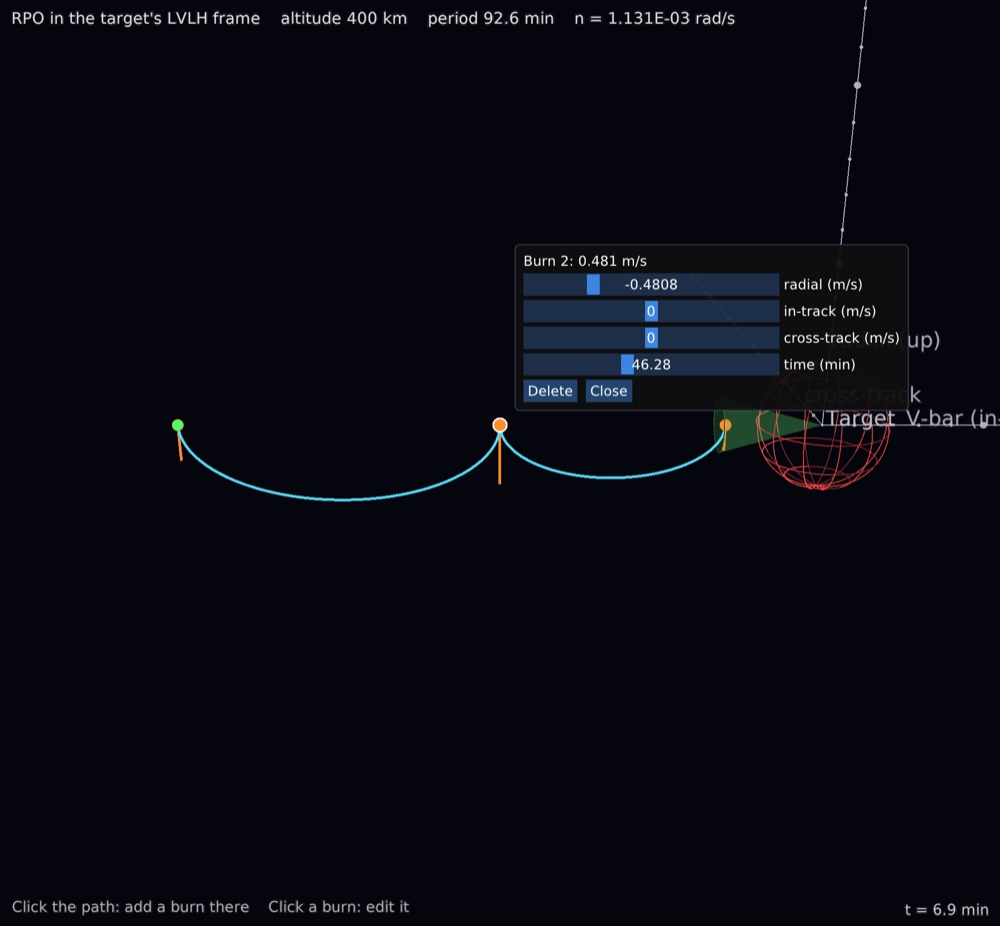
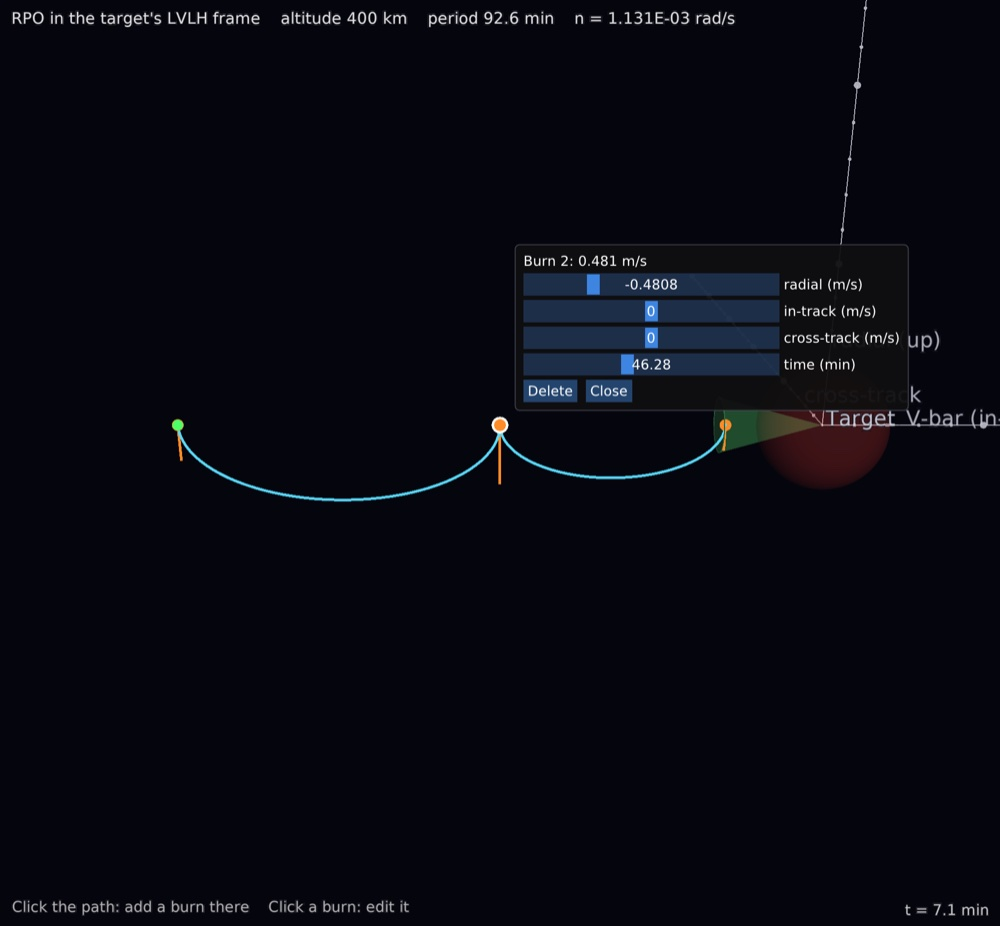
Translucent spheres, and the rendezvous demo's keep-out sphere
Sphere%set_opacity (default 1; not in OpenFrames): below 1 when first
shown, the body is drawn lit and blended (vkf_mesh_create's flag 8: front
faces, no depth written) in a depth-sorted bin (vsg::DepthSorted, bin 10,
farthest first) that each window's scene view draws after the opaque
scene (vkf_mesh_set_bound: its bound). The opacity is the material's
alpha, so it changes at any time. ellipsoid_create takes `translucent`.
test_bodies checks it.

The rendezvous demo's keep-out sphere is a translucent Sphere (an opacity
control in the dock) instead of a wireframe; README, plan, screenshot.

Changed region(s): [[0.744, 0.4233, 0.899, 0.5443], [0.93, 0.9676, 0.961, 0.9978]]

diff --git a/src/vsg/vkf_layer.cpp b/src/vsg/vkf_layer.cpp
@@ -1306,6 +1306,21 @@ namespace
         void apply(vsg::ColorBlendState& state) override { state.configureAttachments(true); }
     };
 
+    // Pipeline states of lit translucent surfaces (a translucent Sphere): blended,
+    // front faces only (the back of a closed surface isn't drawn through it),
+    // not writing depth. Drawn in translucent_bin, after the opaque scene.
+    struct TranslucentStates : public vsg::Visitor
+    {
+        void apply(vsg::Object& object) override { object.traverse(*this); }
+        void apply(vsg::RasterizationState& state) override { state.cullMode = VK_CULL_MODE_BACK_BIT; }
+        void apply(vsg::DepthStencilState& state) override { state.depthWriteEnable = VK_FALSE; }
+        void apply(vsg::ColorBlendState& state) override { state.configureAttachments(true); }
+    };
+
+    // The bin of translucent meshes (vsg::DepthSorted), drawn after the
+    // opaque scene, farthest first (each window's scene view has it).
+    constexpr int32_t translucent_bin = 10;
+
     vsg::ref_ptr<vsg::vec4Array> dynamic_vec4_array(uint32_t n)
     {
         auto a = vsg::vec4Array::create(n, vsg::vec4(0.0f, 0.0f, 0.0f, 1.0f));
@@ -1942,6 +1957,10 @@ VKF_API int vkf_viewer_frame_begin(void* viewer)
         {
             // (no VSG headlight: the window's light is vkframes', v->headlight)
             v->commandGraph = vsg::createCommandGraphForView(v->window, v->camera, v->scene, VK_SUBPASS_CONTENTS_INLINE, false);
+            for (auto& child : v->commandGraph->children)   // translucent meshes: after the opaque scene, farthest first
+                if (auto renderGraph = child.cast<vsg::RenderGraph>(); renderGraph && !renderGraph->children.empty())
+                    if (auto view = renderGraph->children.front().cast<vsg::View>())
+                        view->bins.push_back(vsg::Bin::create(translucent_bin, vsg::Bin::DESCENDING));
             if (v->hudScene)
             {
                 // the HUD: a second view in the same render pass, after the scene
@@ -2422,7 +2441,9 @@ VKF_API void* vkf_model_read(const char* filename, int filename_len)
 // surface (TransparentStates; no textures), 2 for view lighting (frames' axes;
 // see "Lighting"), else lit by the scene's lights with a material
 // (vkf_mesh_material); plus 4 for vertices that change after the mesh is
-// compiled (rewritten in place, then vkf_mesh_vertices_changed).
+// compiled (rewritten in place, then vkf_mesh_vertices_changed); plus 8 for a
+// lit translucent surface (its material's alpha; TranslucentStates, depth
+// sorted with the bound of vkf_mesh_set_bound).
 VKF_API void* vkf_mesh_create(int n_vertices, int n_indices, const float* rgba, void* texture, void* night_texture,
                               int flags)
 {
@@ -2474,6 +2495,11 @@ VKF_API void* vkf_mesh_create(int n_vertices, int n_indices, const float* rgba, 
             TransparentStates states;
             config->accept(states);
         }
+        else if ((flags & 8) != 0)
+        {
+            TranslucentStates states;
+            config->accept(states);
+        }
         if (!unlit && (flags & 2) != 0)
         {
             if (!config->shaderHints) config->shaderHints = vsg::ShaderCompileSettings::create();
@@ -2489,9 +2515,24 @@ VKF_API void* vkf_mesh_create(int n_vertices, int n_indices, const float* rgba, 
         draw->indexCount = static_cast<uint32_t>(n_indices);
         draw->instanceCount = 1;
         stateGroup->addChild(draw);
-        mesh->node = stateGroup;
+        if (!unlit && (flags & 8) != 0)          // drawn after the opaque scene, sorted by depth
+            mesh->node = vsg::DepthSorted::create(translucent_bin, vsg::dsphere(0.0, 0.0, 0.0, 1.0), stateGroup);
+        else
+            mesh->node = stateGroup;
         return mesh.release();
     });
+}
+
+// A translucent mesh's bounding sphere (its coordinates), for sorting it by
+// depth and culling it. Returns 0, or -1 if it isn't a translucent mesh.
+VKF_API int vkf_mesh_set_bound(void* mesh, double x, double y, double z, double radius)
+{
+    auto m = dynamic_cast<Mesh*>(static_cast<Node*>(mesh));
+    if (!m) return -1;
+    auto sorted = m->node.cast<vsg::DepthSorted>();
+    if (!sorted) return -1;
+    sorted->bound = vsg::dsphere(x, y, z, radius);
+    return 0;
 }
 
 // The material of a lit mesh: 19 floats (vsg::PhongMaterial: ambient, diffuse,

diff --git a/plans/plan.md b/plans/plan.md
@@ -470,14 +470,27 @@ Decided so far:
       days 0.14 s -> 0.025 s, 20000 over a year 6.4 s -> 1.0 s, the same
       fates. Without OpenMP the `!$` lines are comments: serial.
       - [ ] Untested: OpenMP on Linux (libgomp) and Windows.
+  - Translucent spheres (`Sphere%set_opacity`, not in OpenFrames; default 1,
+    opaque): below 1 when first shown, the body is drawn lit and blended
+    (vkf_mesh_create's flag 8: TranslucentStates, front faces only, no
+    depth written), in a vsg::DepthSorted node in bin 10, which each window's
+    scene view draws after the opaque scene, farthest first (its bound from
+    vkf_mesh_set_bound: the ellipsoid's largest semi-axis). The opacity is
+    the material's diffuse alpha (the shader's output alpha), so it can
+    change at any time; translucent or opaque is fixed when first shown (as
+    the textures). Tested in `test_bodies` (headless); shown in the
+    rendezvous demo's keep-out sphere.
+      - [ ] Later: translucent Models and other meshes (the same flag), and
+            switching a shown sphere between opaque and translucent.
   - The rendezvous demo (`demos/rpo`, `pixi run -e qt rpo-demo`): RPO in
     the target's LVLH frame (scene x V-bar, y cross-track, z radial up;
     metres) under the Clohessy-Wiltshire equations (`app/cw.f90`: the closed
     form, checked against RK4 to 1e-11 m; a plan propagated piecewise
     between impulsive burns; radial hops along V-bar). The path is colored
     by safety (outside the keep-out sphere; inside it within the approach
-    corridor along -V-bar; a violation), the keep-out sphere a wireframe
-    (LatLonGrid), the corridor an EllipticCone, the burns markers and Δv
+    corridor along -V-bar; a violation), the keep-out sphere translucent (a
+    Sphere with `set_opacity`, its opacity in the dock), the corridor an
+    EllipticCone, the burns markers and Δv
     vectors (SegmentArtist, relative ends, a scale). A click on the path adds
     a burn there; a click on a burn opens a vkf_gui panel next to it (Δv,
     time, delete), the plan propagated again as the sliders move. Presets,

diff --git a/README.md b/README.md
@@ -75,7 +75,9 @@ hidden global state. Vkframes is built on [VulkanSceneGraph](https://github.com/
   - `Sphere`: a sphere or exact ellipsoid (such as WGS84) with day and night
     textures and a material. Its radius, color and material can change while
     it's shown. Level of detail keeps its outline smooth however close the
-    view, with finer meshes only when needed.
+    view, with finer meshes only when needed. It can be translucent (not in
+    OpenFrames; `set_opacity`): still lit, with what is behind it seen
+    through it, e.g. a keep-out zone.
   - `Model`: a 3D model file (`.3ds`, `.obj`, glTF, OSG formats through
     vsgXchange).
 - **Trajectories**:
@@ -461,8 +463,8 @@ Clohessy-Wiltshire equations (closed form, in Fortran).
 - A plan, the chaser's start and impulsive burns, drawn as a path colored by
   safety: outside the keep-out sphere, inside it within the approach
   corridor, or inside it outside the corridor (a violation). The keep-out
-  sphere is a wireframe, the corridor a translucent cone, the burns markers
-  with their Δv as vectors.
+  sphere is a translucent sphere, the corridor a translucent cone, the burns
+  markers with their Δv as vectors.
 - Click the path: a burn is added there. Click a burn: a panel next to it
   sets its Δv and time (or deletes it), and the path is propagated again as
   the sliders move.
